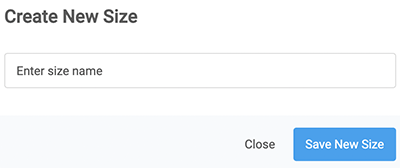
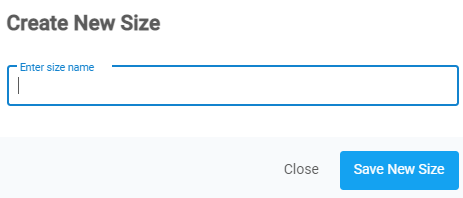
post

diff --git a/docs/managesizes/managesizes.md b/docs/managesizes/managesizes.md
@@ -7,7 +7,7 @@ has_toc: true
 permalink:
 ---
 
-## Intro
+<b> Introduction </b>
 
 ---
 
@@ -36,7 +36,7 @@ To create a new size category follow these steps.
 
 3. **Create New Size** dialog box opens up, enter the _name_ for the size.
 
-   ![create_new_size](../../images/managesizes/newsize_dialog.png)
+   ![create_new_size](../../images/managesizes/newsizecat_dialog.png)
 
 4. Click on **Save New Size.**
 
@@ -44,5 +44,15 @@ To create a new size category follow these steps.
 
 ---
 
-## 
-![sub_manage_size](../../images/managesizes/msize_page.png)
+## Create New Sizes for a Category.
+
+1. From the **Dashboard,** select **Manage Sizes.**
+2. **Manage Size Category** page opens up. Search for the desired _*category*_ and click on ![edit_button](../../images/buttons/edit.png) located at the right on same row.
+
+3. **Manage sizes** page opens up. Click on ![create_new_size](../../images/buttons/cnewsize.png) located on the top right corner.
+4. **Create New Size** dialog box opens up, enter a name for the size.
+5. Click on **Save New Size** to complete.
+
+<a href="#top" id="back-to-top">Back to top</a>
+
+---
